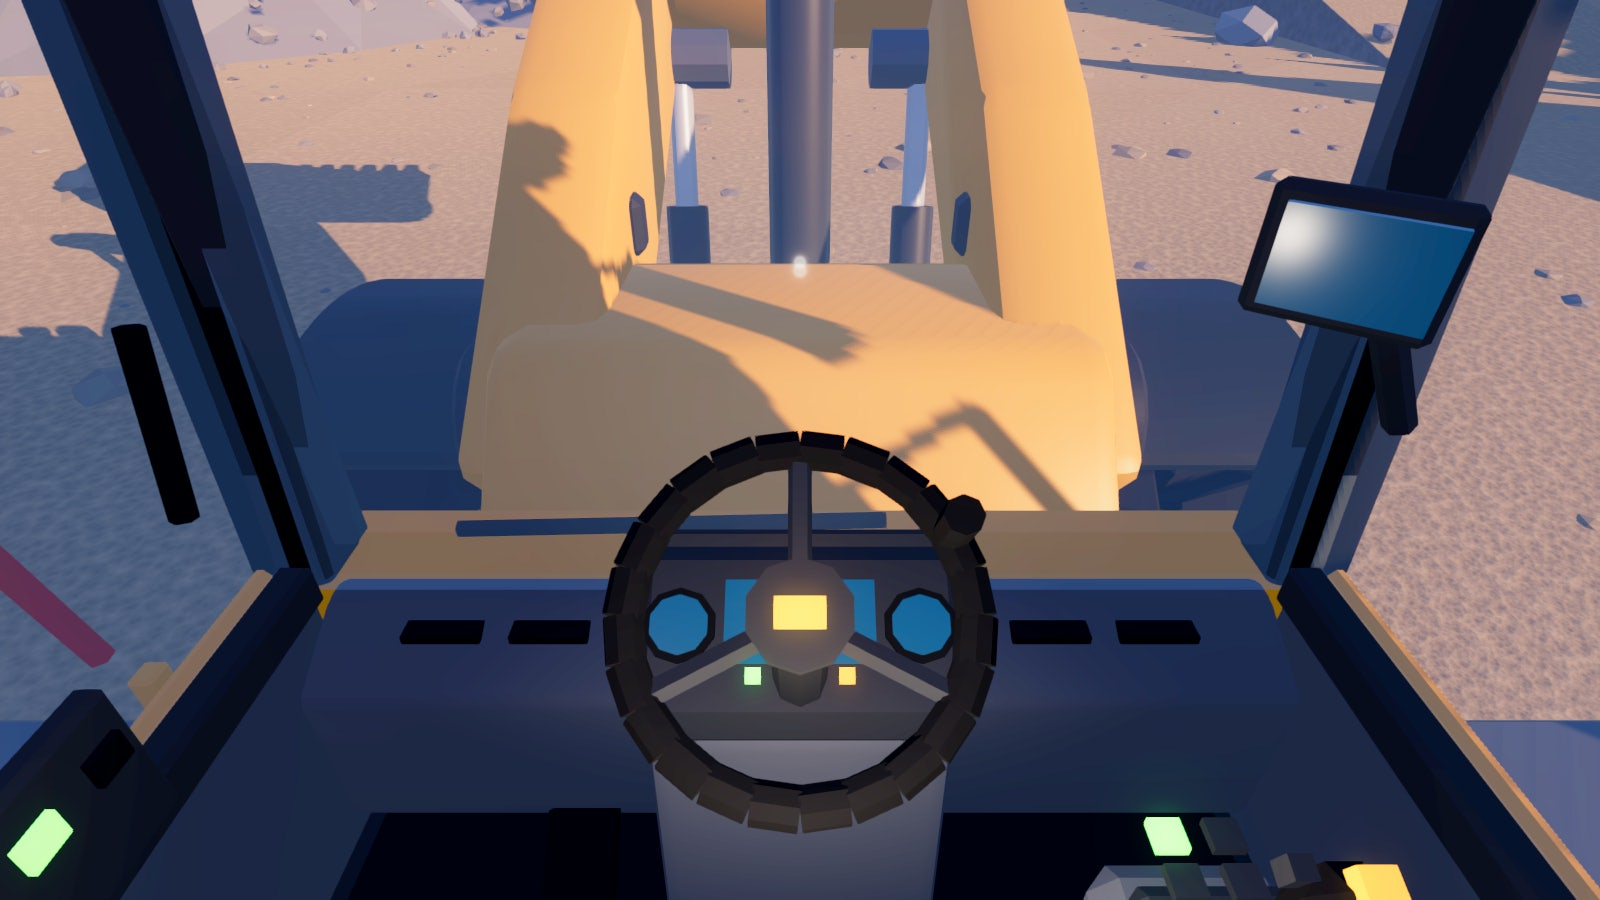
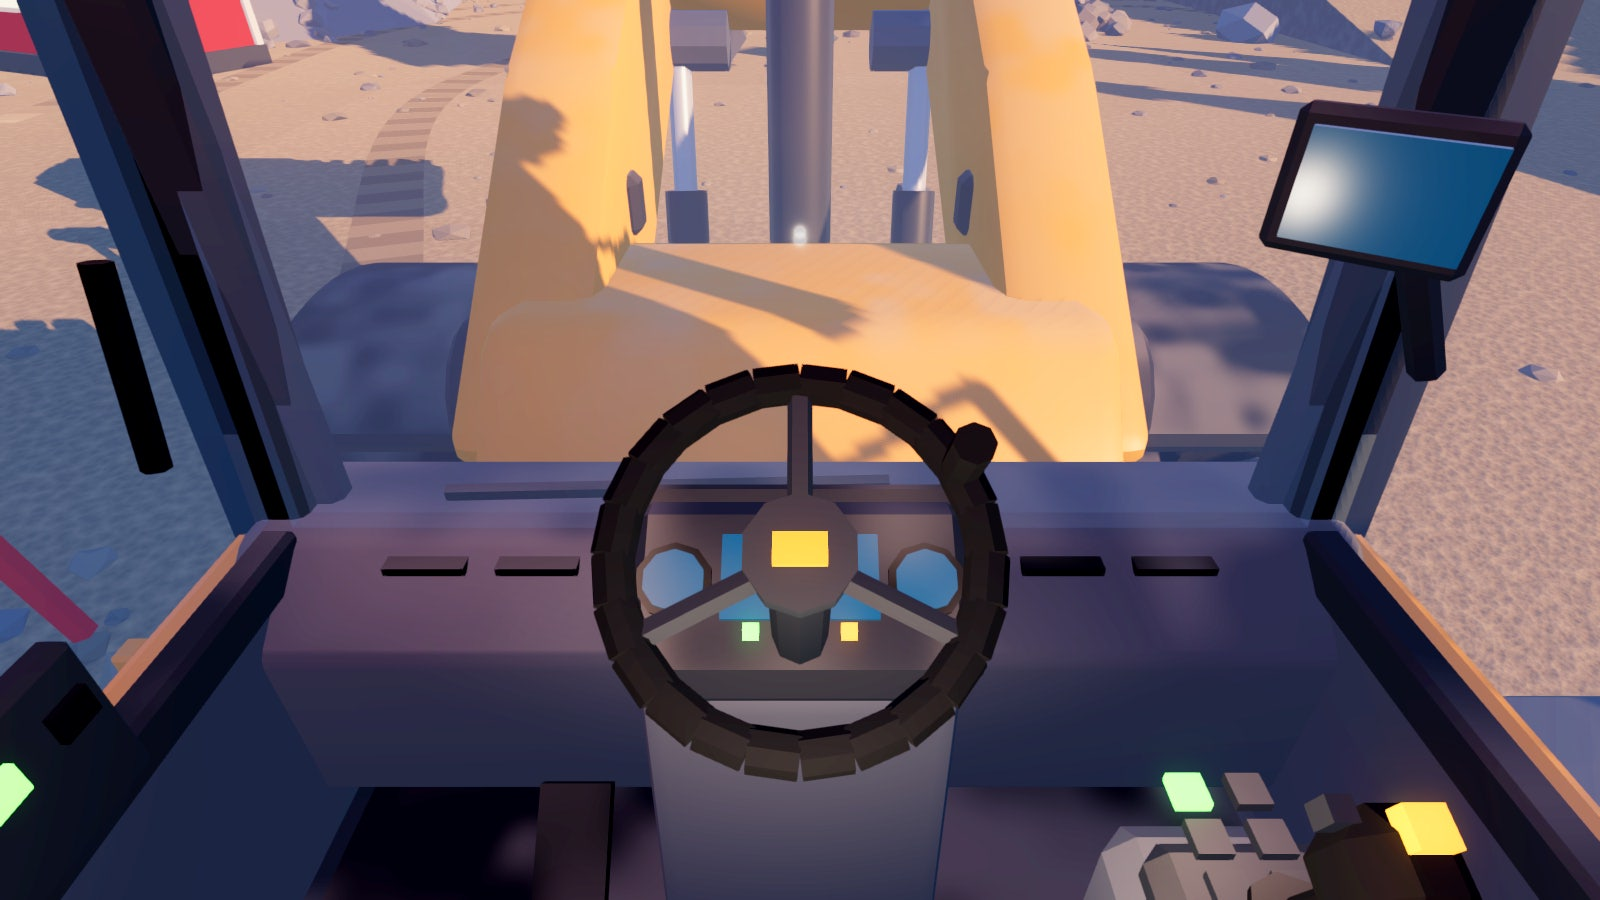
tweak(cab): lower eye point, tucked roller blind, dash shelf covers lower wall; hauler review shot

diff --git a/tools/blender/build_wheel_loader.py b/tools/blender/build_wheel_loader.py
@@ -225,10 +225,10 @@ def cab_interior(p, cz, FL, ROOF):
         for zz in (cz - 0.86, cz + 0.86):
             p.box((0.1, ROOF - FL - 0.75, 0.06), (s * 0.84, (FL + 0.55 + ROOF - 0.2) / 2, zz), TRIM, bevel=0.015)
     # Low front dash shelf with vents (stays below the eye line).
-    p.prism([(cz - 0.8, FL + 0.12), (cz - 0.58, FL + 0.12), (cz - 0.58, FL + 0.44), (cz - 0.74, FL + 0.52), (cz - 0.8, FL + 0.52)],
-            -0.82, 0.82, INTERIOR, bevel=0.02)
+    p.prism([(cz - 0.97, FL + 0.12), (cz - 0.58, FL + 0.12), (cz - 0.58, FL + 0.46), (cz - 0.74, FL + 0.575), (cz - 0.97, FL + 0.575)],
+            -0.92, 0.92, INTERIOR, bevel=0.02)
     for x in (-0.6, -0.42, 0.42, 0.6):
-        p.box((0.13, 0.015, 0.07), (x, FL + 0.495, cz - 0.7), GRIP, bevel=0.0)                 # defrost vents
+        p.box((0.13, 0.015, 0.07), (x, FL + 0.55, cz - 0.72), GRIP, bevel=0.0)                 # defrost vents
     # Steering pod rising from the floor, instrument cluster on top facing the operator.
     p.prism([(cz - 0.66, FL + 0.03), (cz - 0.34, FL + 0.03), (cz - 0.4, FL + 0.6), (cz - 0.62, FL + 0.66)],
             -0.21, 0.21, INTERIOR, bevel=0.03, segments=2)
@@ -276,9 +276,9 @@ def cab_interior(p, cz, FL, ROOF):
     p.box((0.2, 0.16, 0.03), (0.62, FL + 1.18, cz - 0.6), TRIM, bevel=0.01, rot=Matrix.Rotation(-0.62, 4, "Z"))
     p.box((0.17, 0.12, 0.02), (0.615, FL + 1.18, cz - 0.585), DISPLAY, bevel=0.0, rot=Matrix.Rotation(-0.62, 4, "Z"))
     # Top of the windscreen: roller-blind cassette, interior mirror, radio/overhead panel.
-    p.box((1.55, 0.06, 0.07), (0, ROOF - 0.27, cz - 0.9), TRIM, bevel=0.015)
-    p.box((0.22, 0.07, 0.02), (0, ROOF - 0.36, cz - 0.84), TRIM, bevel=0.01)
-    p.box((0.2, 0.055, 0.012), (0, ROOF - 0.36, cz - 0.83), GLASS, bevel=0.0)
+    p.box((1.55, 0.05, 0.06), (0, ROOF - 0.215, cz - 0.86), TRIM, bevel=0.012)                 # roller-blind cassette, tucked under the roof
+    p.box((0.22, 0.07, 0.02), (0, ROOF - 0.3, cz - 0.82), TRIM, bevel=0.01)
+    p.box((0.2, 0.055, 0.012), (0, ROOF - 0.3, cz - 0.81), GLASS, bevel=0.0)
     p.box((0.7, 0.07, 0.3), (0, ROOF - 0.25, cz + 0.3), TRIM, bevel=0.03)                    # overhead panel (above the head)
     p.box(       (0.14, 0.012, 0.05), (-0.15, ROOF - 0.29, cz + 0.25), DISPLAY, bevel=0.0)      # radio
     for x in (0.12, 0.24):

diff --git a/docs/reviews/2026-11-12-cab-controls/REVIEW.md b/docs/reviews/2026-11-12-cab-controls/REVIEW.md
@@ -6,3 +6,6 @@ Follow-up to [cab interior](../2026-11-12-cab-interior/REVIEW.md), from its gap 
 - `scripts/vehicles/cab_controls.gd` (presentation only) turns the wheel 0.6 turn each side at full articulation and tips the joystick up to 18° with the lift and tilt input, smoothed.
 - The `cab_dash.jpg` shot now uses 20° articulation and full lift input. In the shot the spokes and spinner knob are rotated and the arm is lifting.
 - Test: "cab steering wheel turns with the articulation"; the parts check now covers 8 models.
+
+## Follow-up: cab header
+The eye point moved from y 3.92 to 3.84. The roller-blind cassette is tucked under the roof, and the dash shelf is raised and widened so it covers the lower cab wall. In `cab.jpg` the roof header drops from about 15% to about 12% of the view.
